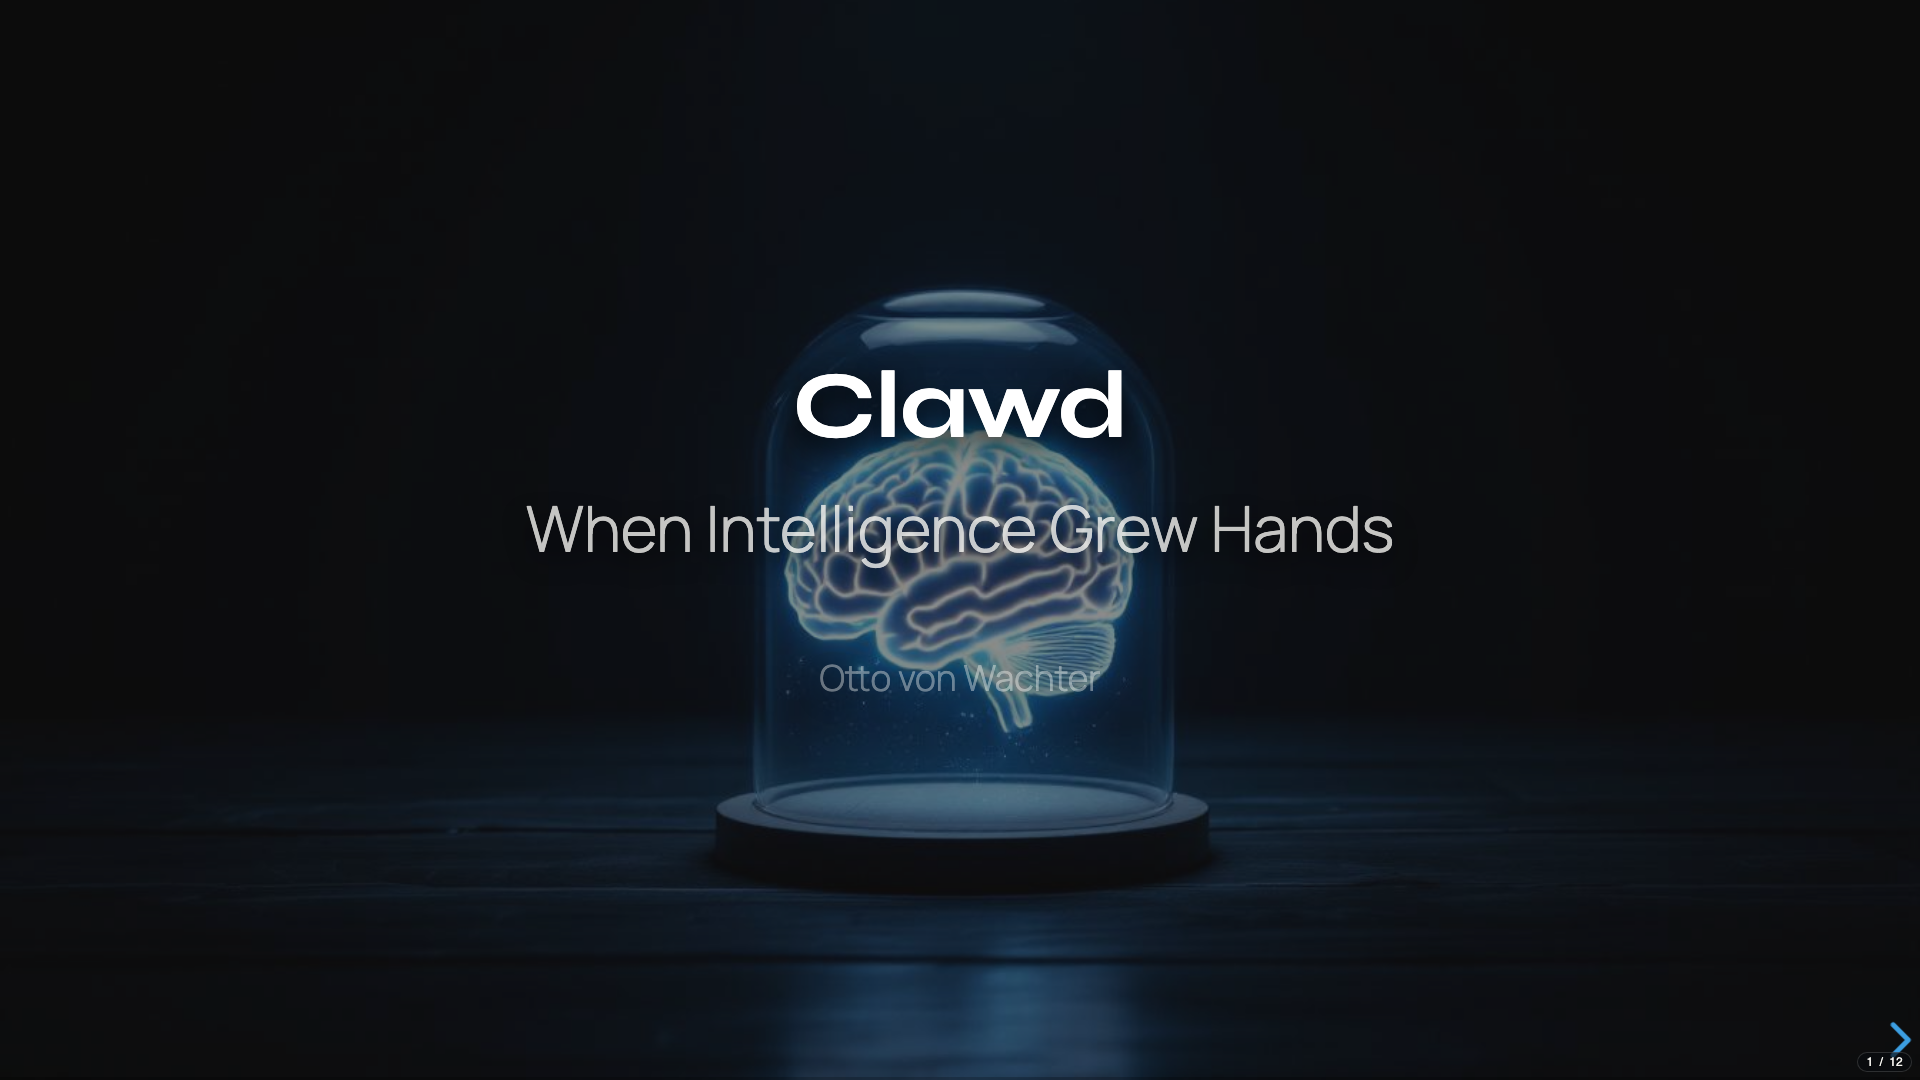
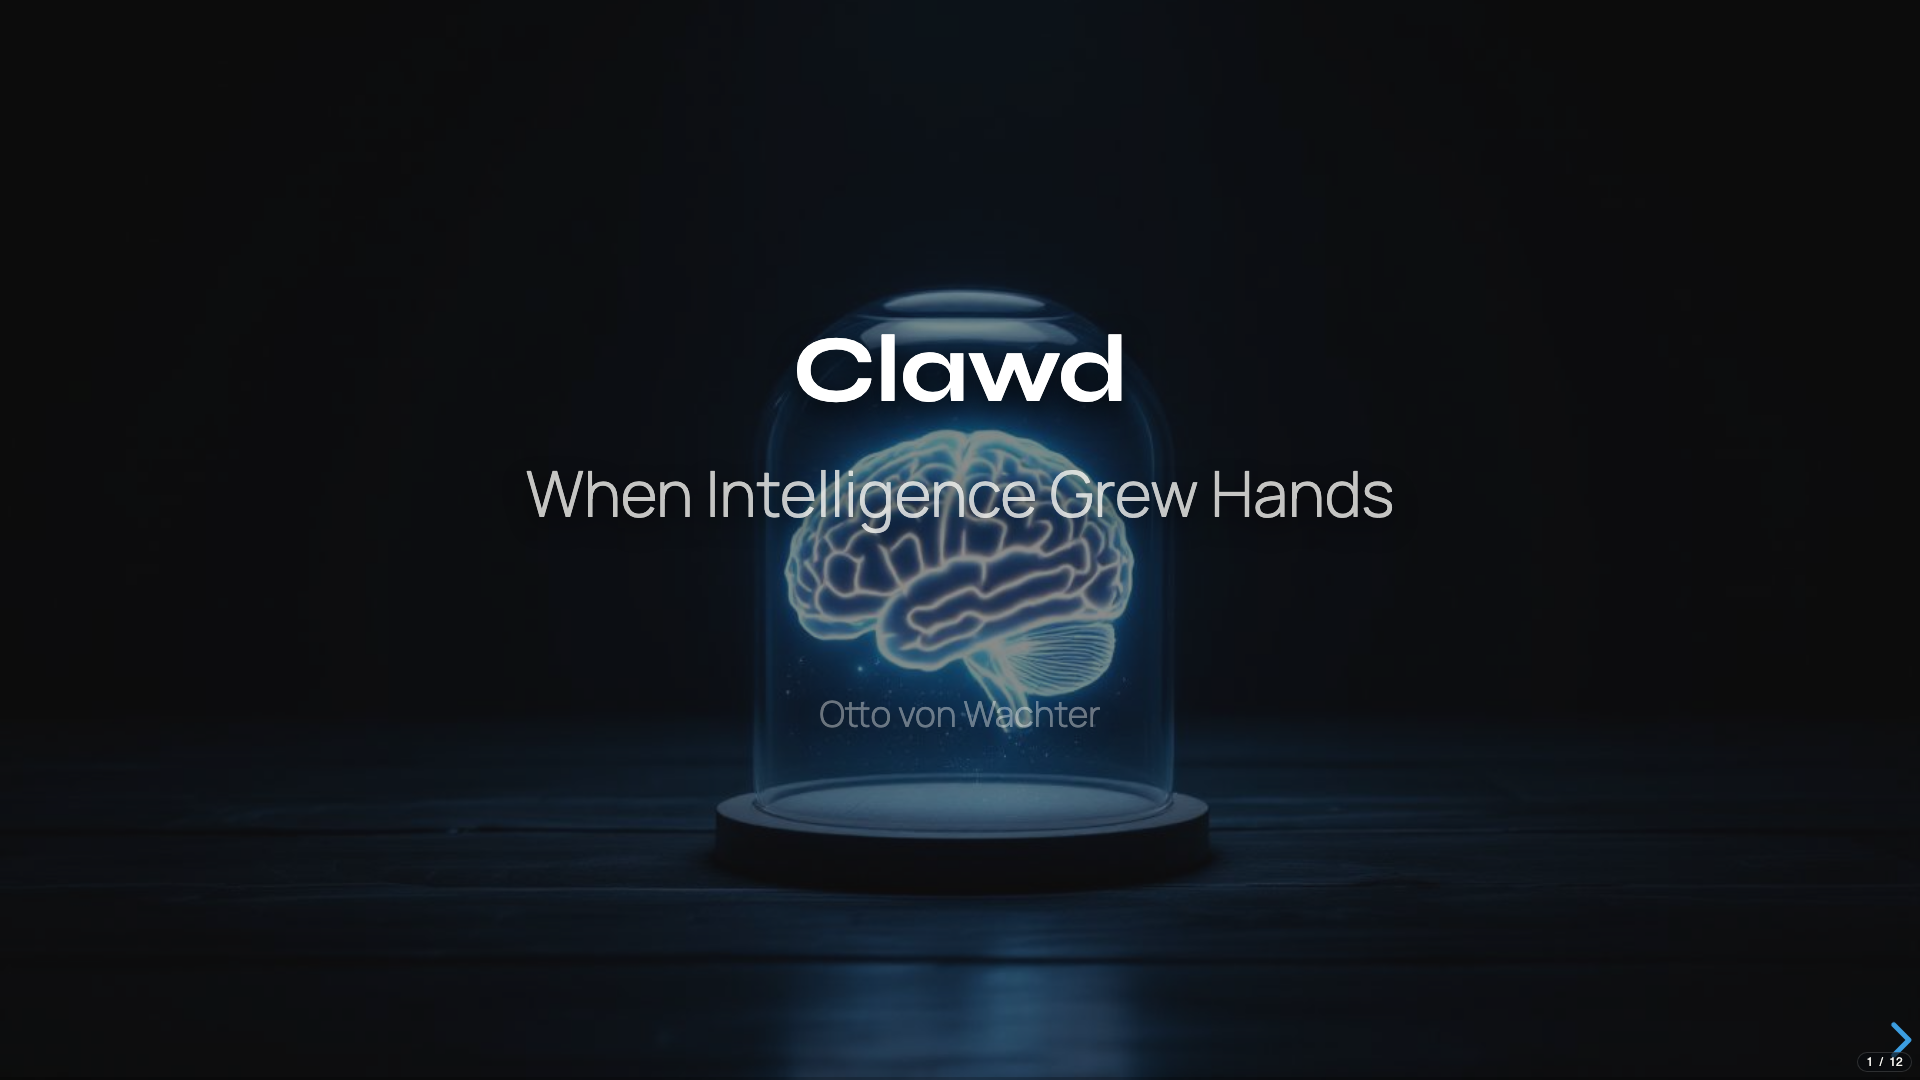
fix: slide 1 — push author name down for readability

Changed region(s): [[0.25, 0.3056, 0.75, 0.5194], [0.4375, 0.6111, 0.5625, 0.6722]]

diff --git a/pres.html b/pres.html
@@ -19,7 +19,7 @@
       <section data-background-image="images/01-brain-in-jar.jpg" data-background-size="cover" data-background-opacity="0.5">
         <h1 style="font-size:2.4em; line-height:1.1;">Clawd</h1>
         <p style="font-size:1.6em; font-weight:300; opacity:0.8;">When Intelligence Grew Hands</p>
-        <p style="font-size:0.9em; opacity:0.4; margin-top:2em;">Otto von Wachter</p>
+        <p style="font-size:0.9em; opacity:0.4; margin-top:4em;">Otto von Wachter</p>
         <aside class="notes">
           Pause. Let them read. Then: open honestly.
         </aside>
